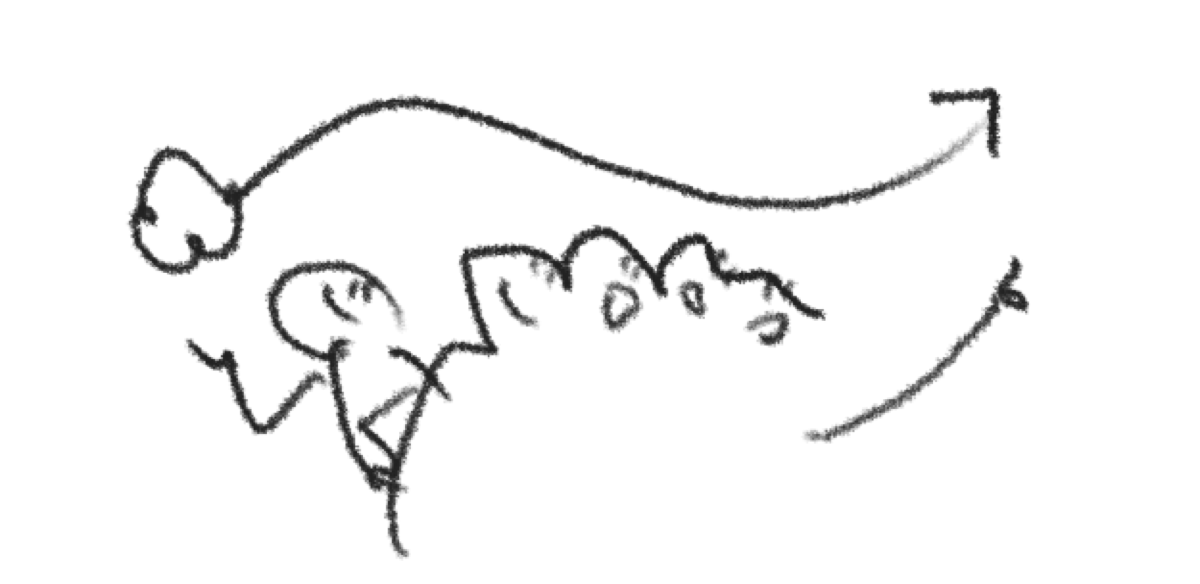
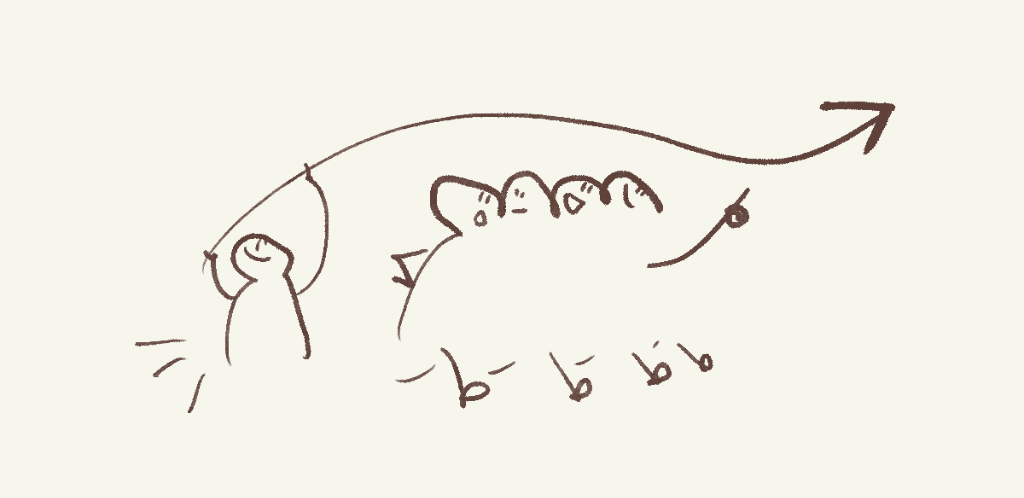
Add illustrations for Quiz Q1-Q5

diff --git a/src/data/questions.ts b/src/data/questions.ts
@@ -16,11 +16,11 @@ export type ParameterKey =
   | 'Innovation';
 
 export const QUESTIONS: Question[] = [
-  { id: 1, text: '自分の意見と対立する話を聞いたとき、すぐに反論するのではなく「なぜそう思うのか」を深く理解しようとする。', image: '/images/Q2Image.png', parameterKey: 'Respect' },
+  { id: 1, text: '自分の意見と対立する話を聞いたとき、すぐに反論するのではなく「なぜそう思うのか」を深く理解しようとする。', image: '/images/Q1Image.png', parameterKey: 'Respect' },
   { id: 2, text: 'チーム全体がうまくいくなら、自分の手柄にならなくても喜んで裏方に回ることができる。', image: '/images/Q2Image.png', parameterKey: 'Respect' },
-  { id: 3, text: '忙しいときでも、周りの人が困っている様子なら、手を止めて声をかけたり手伝ったりする。', image: '/images/Q2Image.png', parameterKey: 'Warmth' },
-  { id: 4, text: '一人で黙々と作業するよりも、みんなでわいわい議論しながら作り上げるプロセスが好きだ。', image: '/images/Q2Image.png', parameterKey: 'Warmth' },
-  { id: 5, text: '一度「やる」と決めたことは、どんなに状況が悪化しても、意地でも最後までやり遂げる。', image: '/images/Q2Image.png', parameterKey: 'Responsibility' },
+  { id: 3, text: '忙しいときでも、周りの人が困っている様子なら、手を止めて声をかけたり手伝ったりする。', image: '/images/Q3Image.png', parameterKey: 'Warmth' },
+  { id: 4, text: '一人で黙々と作業するよりも、みんなでわいわい議論しながら作り上げるプロセスが好きだ。', image: '/images/Q4Image.png', parameterKey: 'Warmth' },
+  { id: 5, text: '一度「やる」と決めたことは、どんなに状況が悪化しても、意地でも最後までやり遂げる。', image: '/images/Q5Image.png', parameterKey: 'Responsibility' },
   { id: 6, text: '困難なトラブルが起きたとき、「困った」と落ち込むより、「腕の見せ所だ」と逆に燃えてくる。', image: '/images/Q2Image.png', parameterKey: 'Responsibility' },
   { id: 7, text: 'もし会社やチームが間違ったことをしようとしたら、空気を読まずに「それは違う」と言う覚悟がある。', image: '/images/Q2Image.png', parameterKey: 'UniversalTruth' },
   { id: 8, text: 'ルールや利益も大事だが、それ以上に「人としての自由」や「愛」が守られているかを重視する。', image: '/images/Q2Image.png', parameterKey: 'UniversalTruth' },
